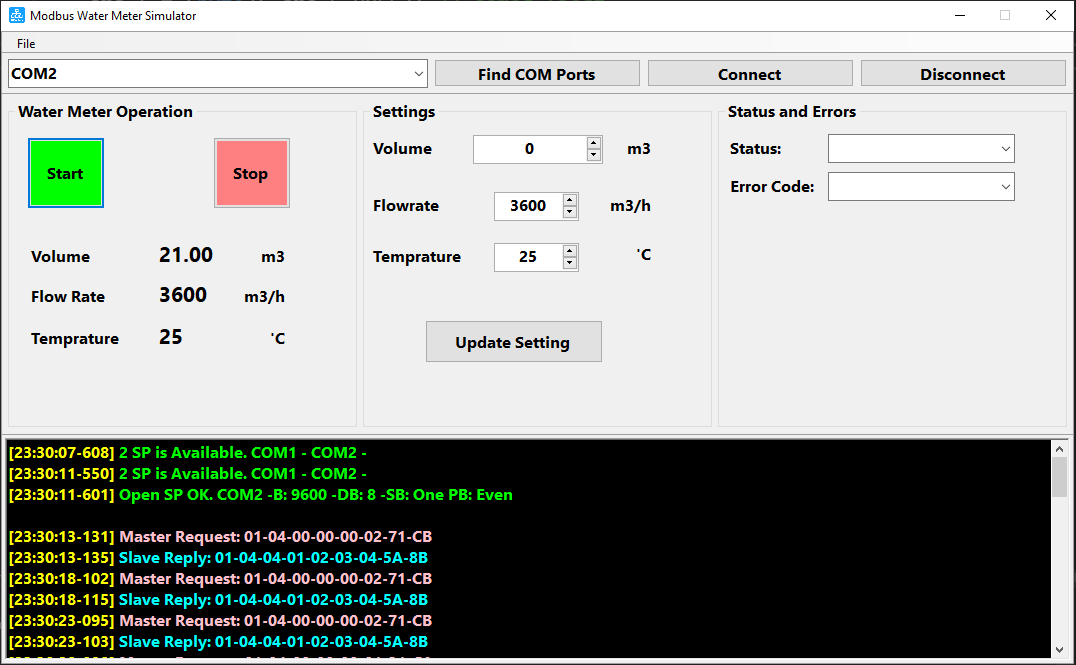
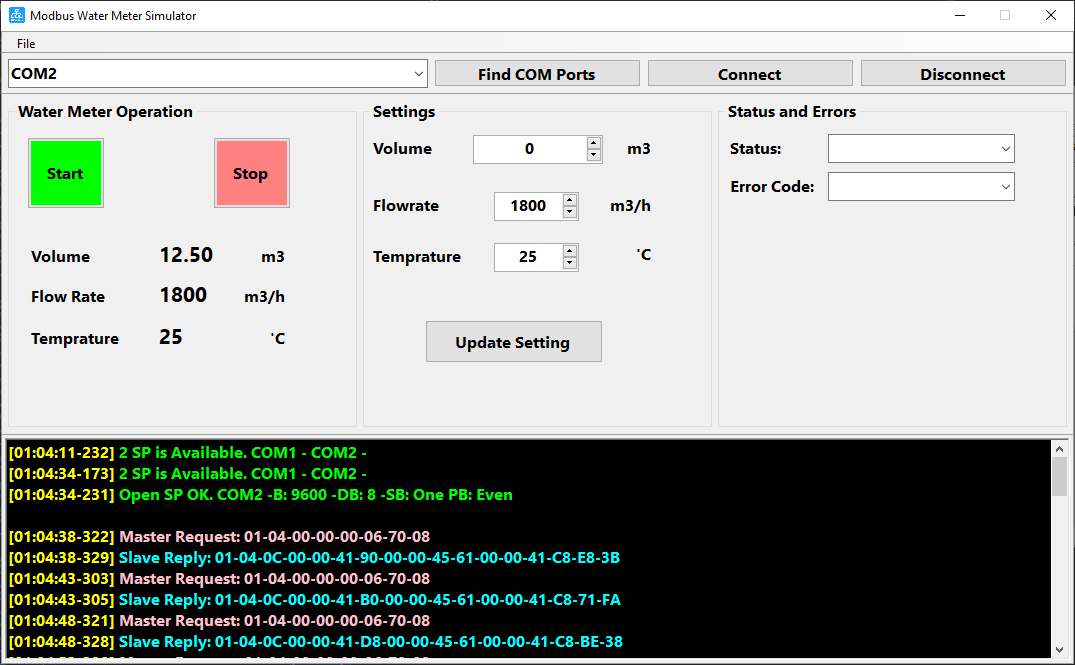
connect meter values to modbus reply engin, update app images

diff --git a/ModbusDevSim/ModbusSlvSim/Form1.cs b/ModbusDevSim/ModbusSlvSim/Form1.cs
@@ -9,6 +9,7 @@ using System.Linq;
 using System.Text;
 using System.Threading.Tasks;
 using System.Windows.Forms;
+using static ModbusSlvSim.modbus.mbcore;
 
 namespace ModbusSlvSim
 {
@@ -28,7 +29,8 @@ namespace ModbusSlvSim
         #endregion
 
         #region Fields - Modbus
-        mbcore _mbc; 
+        mbcore _mbc;
+        WMparam _wmparam;
         #endregion
 
         #region Init and Constructors
@@ -52,6 +54,8 @@ namespace ModbusSlvSim
                 is_sp_open = false;
             }
         }
+        #endregion
+
         #region Methods - Serial Port
         public void Init_SP()
         {
@@ -99,7 +103,9 @@ namespace ModbusSlvSim
         private void Sp1_onRec(object sender, spRecEv e)
         {
             su1.SetRichText(txtr_main, "Master Request: " + BitConverter.ToString(e.data_byte), Color.Pink);
-            if(_mbc.process_packet(e.data_byte) != 0)
+            update_wm_data_record_params();
+            _mbc.WaterMeterParams = _wmparam;
+            if (_mbc.process_packet(e.data_byte) != 0)
             {
                 su1.SetRichText(txtr_main, "Invalid Packet, Err Code: " + _mbc.ErrorCode.ToString(), Color.Red);
             }
@@ -127,8 +133,6 @@ namespace ModbusSlvSim
             }
             su1.SetRichText(txtr_main, e.ev_msg, c);
         }
-
-        #endregion
 
         #endregion
 
@@ -202,12 +206,9 @@ namespace ModbusSlvSim
         }
         void update_wm_data_record_params()
         {
-            //_wmparam.Temprature = (float)temprature;
-            //_wmparam.Volume = (UInt32)volume;
-            //_wmparam.ErrorCode = (UInt32)cbx_binary_err_code.SelectedIndex;
-            //_wmparam.Flowrate = (float)flow_rate;
-            //_wmparam.OnTime = 1000;
-            //_wmparam.Records = _Active_records;
+            _wmparam.Temprature = (float)temprature;
+            _wmparam.Volume = (float)volume;
+            _wmparam.Flowrate = (float)flow_rate;
         }
         private void btn_update_wm_settings_Click(object sender, EventArgs e)
         {

diff --git a/ModbusDevSim/ModbusSlvSim/modbus/mbcore.cs b/ModbusDevSim/ModbusSlvSim/modbus/mbcore.cs
@@ -43,6 +43,14 @@ namespace ModbusSlvSim.modbus
         sp _sp;
         RichTextBox _rtb;
         sputil _sput;
+
+        public struct WMparam
+        {
+            public float Volume;
+            public float Flowrate;
+            public float Temprature;
+        }
+        WMparam _wmparam;
         #endregion
 
         #region Constructors
@@ -230,21 +238,21 @@ namespace ModbusSlvSim.modbus
             switch (_add_reg)
             {
                 case 1:
-                    fill_float(1.687f, 3, true);
+                    fill_float(_wmparam.Volume, 3, true);
                     if (_len_data >=4)
-                        fill_float(15.687f, 7, true);
+                        fill_float(_wmparam.Flowrate, 7, true);
                     if(_len_data>=6)
-                        fill_float(124.987f, 11, true);
+                        fill_float(_wmparam.Temprature, 11, true);
                     break;
 
                 case 2:
-                    fill_float(15.687f, 3, true);
+                    fill_float(_wmparam.Flowrate, 3, true);
                     if(_len_data >=4)
-                        fill_float(124.987f, 7, true);
+                        fill_float(_wmparam.Temprature, 7, true);
                     break;
 
                 case 3:
-                    fill_float(124.987f, 3, true);
+                    fill_float(_wmparam.Temprature, 3, true);
                     break;
                 default:
                     break;
@@ -334,6 +342,14 @@ namespace ModbusSlvSim.modbus
             get
             {
                 return _err_code;
+            }
+        }
+
+        public WMparam WaterMeterParams
+        {
+            set
+            {
+                _wmparam = value;
             }
         }
         #endregion
